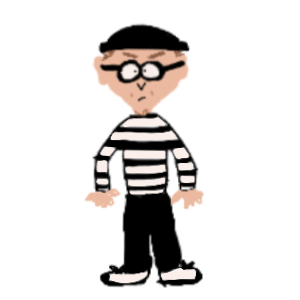
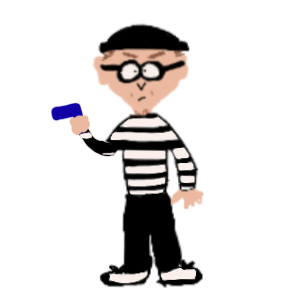
added car drawings

Changed region(s): [[0.15, 0.33, 0.42, 0.69]]

diff --git a/src/scenes/MasterFile.js b/src/scenes/MasterFile.js
@@ -11,7 +11,7 @@ export default class MasterFile extends Phaser.Scene {
   create(){
     //camera
 
-    this.scrollCam = this.cameras.main.setBounds(0, 0, 4800, 300);
+    this.scrollCam = this.cameras.main.setBounds(0, 0, 4700, 300);
 
     //this.scrollCam = this.cameras.main.setBounds(0,0, 3000, 300);
     this.scrollCam.scrollX = 0;
@@ -46,7 +46,11 @@ export default class MasterFile extends Phaser.Scene {
     this.box9 = this.platforms.create(1515, 457, "box").setSize(30, 10); this.box9.alpha = 0;
 
     // alley
+<<<<<<< HEAD
+    this.trashcan1 = this.add.image(1650, 540, "trashcan").setScale(.001);
+=======
     this.trashcan1 = this.add.image(1650, 540, "trashcan").setScale(.08);
+>>>>>>> 3c5eb4645f2bdd25ae4d344741f99850a7e8d5e3
     this.box10 = this.platforms.create(1650, 540, "box").setSize(40, 60); this.box10.alpha = 0;
     this.trashcan2 = this.add.image(1720, 520, "trashcan").setScale(.12);
     this.box11 = this.platforms.create(1720, 520, "box").setSize(60, 90); this.box11.alpha = 0;
@@ -54,17 +58,17 @@ export default class MasterFile extends Phaser.Scene {
     this.sign1 = this.add.image(1850, 350, "sign1").setScale(.1);
     this.box12 = this.platforms.create(1850, 364, "box").setSize(70, 30); this.box12.alpha = 0;
     this.collectables.create(1700, 250, "dogBowl").setScale(.2).setSize(42, 25).setPosition(1610, 160);
-    this.collectables.create(2282, 404, "dogCollar").setScale(.05).setSize(30, 25).setPosition(2010, 160);
+    this.collectables.create(2092, 244, "dogCollar").setScale(.1).setSize(45, 30).setPosition(2010, 160);
     this.dumpster = this.add.image(2200, 480, "dumpster").setScale(.26);
-    this.box13 = this.platforms.create(2200, 520, "box").setSize(155, 110); this.box13.alpha = 0;
-    this.box14 = this.platforms.create(2200, 417, "box").setSize(120, 50); this.box14.alpha = 0;
+    this.box13 = this.platforms.create(2200, 520, "box").setSize(150, 110); this.box13.alpha = 0;
+    this.box14 = this.platforms.create(2200, 417, "box").setSize(110, 60); this.box14.alpha = 0;
     this.trashcan3 = this.add.image(2450, 540, "trashcan").setScale(.08);
     this.box15 = this.platforms.create(2450, 540, "box").setSize(40, 60); this.box15.alpha = 0;
     this.sign2 = this.add.image(2630, 444, "sign2").setScale(.08);
     this.box16 = this.platforms.create(2630, 455, "box").setSize(60, 20); this.box16.alpha = 0;
-    this.makeEnemy(2100, 530, "thug", .3);
-    this.makeEnemy(2390, 525, "thug", .3);
-    this.makeEnemy(2850, 505, "thug", .3);
+    this.makeEnemy(2440, 525, "thug", .08);
+    this.makeEnemy(2100, 510, "thug", .1);
+    this.makeEnemy(2850, 505, "thug", .11);
     this.trashcan4 = this.add.image(3450, 540, "trashcan").setScale(.08);
     this.box16 = this.platforms.create(3450, 540, "box").setSize(40, 60); this.box16.alpha = 0;
     this.collectables.create(3800, 777, "dogToy").setScale(.04).setSize(26, 35).setPosition(3320, 260);
@@ -88,7 +92,7 @@ export default class MasterFile extends Phaser.Scene {
     this.tree = this.add.image(4300, 400, "tree").setScale(.5);
     this.box21 = this.platforms.create(4300, 390, "box").setSize(250, 5); this.box21.alpha = 0;
     // boss
-    this.makeEnemy(4750, 470, "thug", .7);
+    this.makeEnemy(4740, 470, "thug", .2);
 
     this.hachiko = this.physics.add.image(4700, 600, "hachiko").setScale(.14);
     this.hachiko.setCollideWorldBounds(true);
@@ -98,8 +102,17 @@ export default class MasterFile extends Phaser.Scene {
     this.player.setCollideWorldBounds(true);
     this.player.setActive(true);
 
+
+    //this.hachiko = this.physics.add.image(4700, 590, "hachiko").setScale(.14);
+    //this.hachiko.setCollideWorldBounds(true);
+
+
+
+    //player
+    //this.player = this.physics.add.sprite(60, 550, "alien");
+    //this.player.setCollideWorldBounds(true);
     //gun
-    this.nerf = this.add.sprite(100 ,520, "nerf");
+    this.nerf = this.add.sprite(100,520, "nerf");
     this.nerf.setScale(.03);
     //Gun and Bullets
     var bullets;
@@ -138,15 +151,13 @@ export default class MasterFile extends Phaser.Scene {
     var gunDir;
     this.health = 500;
     var scoreFormated = this.zeroPad(this.health, 6);
-    this.healthLabel = this.add.text(5, 5,"Health: " + scoreFormated);
-    this.healthLabel.setScrollFactor(0);
 
 
   }
 
   update (time, delta) {
-    //this.healthLabel.fixedToCamera = true;
-    //this.healthLabel = this.add.text(this.scrollCam.worldView.x, 5,"SCORE: " + this.scoreFormated);
+
+    this.healthLabel = this.add.text(this.scrollCam.worldView.x, 5,"SCORE: " + this.scoreFormated);
 
     // if player is on screen, enemy shoot
 
@@ -156,9 +167,9 @@ export default class MasterFile extends Phaser.Scene {
     }
 
     //Scrolling screen
-    this.physics.world.setBounds(this.scrollCam.worldView.x, 0, 4800, 550);
+    this.physics.world.setBounds(this.scrollCam.worldView.x, 0, 4700, 550);
     //this.physics.world.setBounds(this.scrollCam.worldView.x, 0, 3000, 550);
-    this.scrollCam.scrollX += .5;
+    this.scrollCam.scrollX += 1.25;
 
     //If player is off screen. LOSE condition
     if(this.player.x < this.scrollCam.worldView.x - 75){
@@ -217,14 +228,14 @@ export default class MasterFile extends Phaser.Scene {
       this.nerf.x = this.player.x + 10;
     }
 
-    //enemy damaging playerr
+    //enemy detection again player
     this.enemyGroup.children.each(
       function(e){
         if (e.active){
           this.physics.add.collider(
             e,
             this.player,
-            this.takeDamageFromEnemy,
+            this.takeDamage,
             null,
             this
           );
@@ -234,7 +245,7 @@ export default class MasterFile extends Phaser.Scene {
 
 
 
-    //bullets hitting enemies
+    //bullets detection
     this.bullets.children.each(
       function(b){
         if (b.active){
@@ -264,7 +275,7 @@ export default class MasterFile extends Phaser.Scene {
           this.physics.add.collider(
             b,
             this.player,
-            this.takeDamageFromEnemyBullets,
+            this.takeDamage,
             null,
             this
           );
@@ -285,7 +296,7 @@ export default class MasterFile extends Phaser.Scene {
       function(e){
         if (e.active){
           if (Phaser.Math.Distance.Between(e.x,e.y,this.player.x,this.player.y) < 300){
-            console.log("within shooting distance");
+            console.log("woo");
             this.enemyShoot(this.player.x, this.player.y, e);
           }
         }
@@ -301,7 +312,7 @@ export default class MasterFile extends Phaser.Scene {
 
     var velocityFromRotation = this.physics.velocityFromRotation;
     var velocity = new Phaser.Math.Vector2();
-    velocityFromRotation(angle, 400, velocity);
+    velocityFromRotation(angle, -400, velocity);
     var bullet = this.enemyBullets.get();
     bullet.setAngle(Phaser.Math.RAD_TO_DEG * angle);
     //if (direction == 'Flip'){
@@ -326,19 +337,12 @@ export default class MasterFile extends Phaser.Scene {
   }
 
   //when hit by an enemy
-  takeDamageFromEnemy(enemy, player){
+  takeDamage(enemy, player){
     this.health -= 5;
-    var scoreFormated = this.zeroPad(this.health, 6);
-    this.healthLabel.text = "SCORE " + scoreFormated;
     console.log(this.health, "health");
-  }
-
-  takeDamageFromEnemyBullets(bullet, player){
-    this.health -= 10;
-    bullet.disableBody(true, true);
-    var scoreFormated = this.zeroPad(this.health, 6);
-    this.healthLabel.text = "SCORE " + scoreFormated;
-    console.log(this.health, "health");
+    //enemy.setImmovable();
+    //enemy.setVelocity = -(player.velocity);
+    //add a red tint later to indicate damage
   }
 
   //creating thugs

diff --git a/src/scenes/BootScene.js b/src/scenes/BootScene.js
@@ -3,8 +3,8 @@ export default class BootScene extends Phaser.Scene {
   preload () {
     // Preload assets
     this.load.image("background", "./assets/images/background.png");
-    this.load.image("car1", "./assets/images/car1.png");
-    this.load.image("car2", "./assets/images/car2.png");
+    this.load.image("car1", "./assets/images/car11.png");
+    this.load.image("car2", "./assets/images/car12.png");
     this.load.image("mailbox", "./assets/images/mailbox.png");
     this.load.image("lamppost", "./assets/images/lamppost.png");
     this.load.image("trashcan", "./assets/images/trashcan.png");
